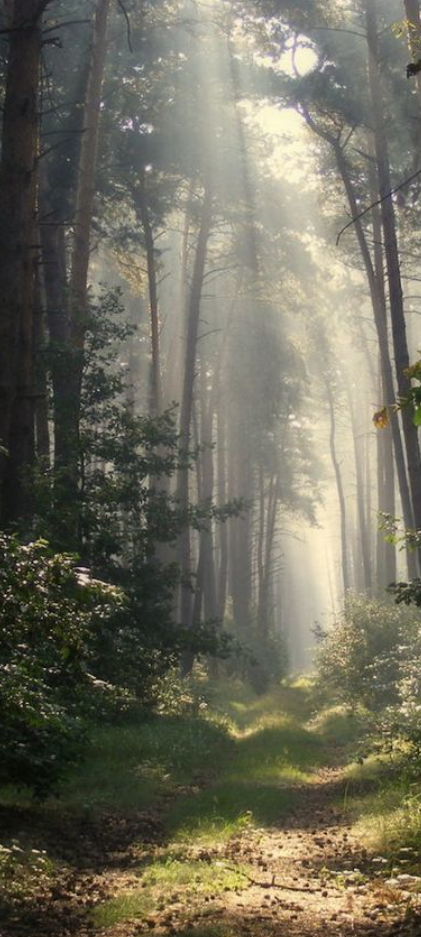
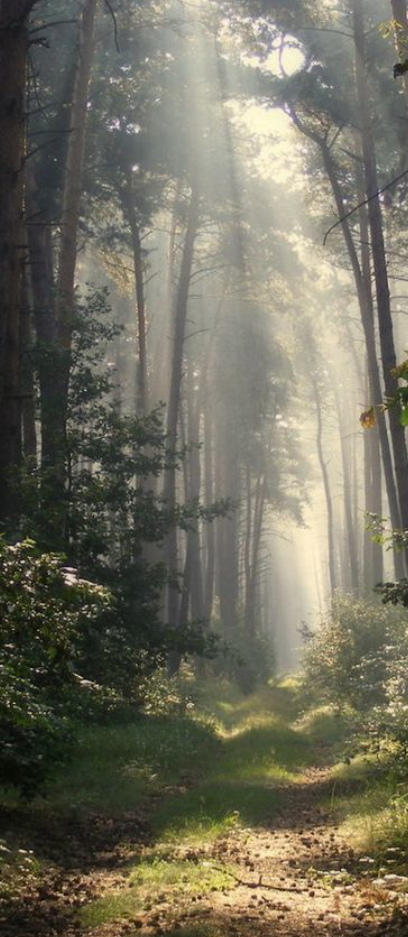
Better screen fit

diff --git a/main.js b/main.js
@@ -94,6 +94,7 @@ let scale = 1;
 let r = 1;
 let r_min = 17;
 let mode = -1;
+const img_num = 8;
 let image_turn = -1;
 
 function resizeCanvas(canvas) {
@@ -104,12 +105,10 @@ function resizeCanvas(canvas) {
 	return last_height !== canvas.height;
 }
 
-async function start() {
-	// Get images from the file input event
+async function loadImages(n) {
 	const imgs = [];
-	const img_num = 8;
 
-	for (let i = 1; i <= img_num; i++) {
+	for (let i = 1; i <= n; i++) {
 		const src = new Image();
 		src.src = `green_dominant/base ${i}.png`;
 		src.crossOrigin = 'anonymous';
@@ -121,9 +120,10 @@ async function start() {
 
 		// Create a canvas
 		const can = document.createElement('canvas');
-		// document.body.appendChild(base_canvas);
+
+		// Set the canvas size following the screen ratio
 		can.width = src.width;
-		can.height = src.height;
+		can.height = src.width / (innerWidth / innerHeight);
 		const ctx = can.getContext('2d', { willReadFrequently: true });
 
 		// Draw the image on the base_canvas
@@ -133,6 +133,11 @@ async function start() {
 		imgs.push({ src, can, ctx });
 	}
 
+	console.log('loaded');
+	return imgs;
+}
+
+async function start() {
 	let decrease_timeout;
 	const decrease = () => {
 		r = Math.max(r_min, r * 0.9);
@@ -143,15 +148,10 @@ async function start() {
 		}
 	};
 
-	let skip_timeout;
 	const skip = () => {
 		image_turn = (image_turn + 1) % imgs.length;
-
 		r = 100;
 		decrease();
-
-		// if (skip_timeout) clearTimeout(skip_timeout);
-		// skip_timeout = setTimeout(skip, 30000);
 	};
 
 	// Create a result canvas
@@ -160,6 +160,10 @@ async function start() {
 	const res_ctx = res_canvas.getContext('2d');
 	document.body.appendChild(res_canvas);
 
+	// Get images from the file input event
+	const img_num = 8;
+	let imgs = [];
+
 	// Draw blured base image on the result canvas
 	const bluredBase = () => {
 		const src = imgs[image_turn].src;
@@ -167,7 +171,6 @@ async function start() {
 		res_ctx.filter = `blur(20px)`;
 		res_ctx.drawImage(src, 0, 0, (res_canvas.height / src.height) * src.width, res_canvas.height);
 		res_ctx.filter = 'none';
-		console.log('blured');
 	};
 
 	// Loop functione
@@ -203,16 +206,16 @@ async function start() {
 
 	res_canvas.ondblclick = () => reset(false);
 
-	function reset(force) {
-		mode = -mode;
-		if (mode === 1) skip();
-
+	async function reset(force) {
 		res_canvas.requestFullscreen();
 		const changed = resizeCanvas(res_canvas) || force;
 
 		if (changed) {
+			// Get images from the file input event
+			imgs = await loadImages(img_num);
+
 			for (const img of imgs) {
-				scale = res_canvas.height / img.src.height;
+				scale = img.can.width / res_canvas.width;
 
 				// Temporary array to store the coordinates
 				temp_coords = [];
@@ -224,7 +227,7 @@ async function start() {
 						const y = Math.round(j + (Math.random() - 0.5) * 10);
 
 						// Get the color of the pixel from the base canvas
-						const [r, g, b] = img.ctx.getImageData(x / scale, y / scale, 1, 1).data;
+						const [r, g, b] = img.ctx.getImageData(x * scale, y * scale, 1, 1).data;
 
 						temp_coords.push([x, y, r, g, b]);
 					}
@@ -254,6 +257,8 @@ async function start() {
 			}
 		}
 
+		mode = -mode;
+		if (mode === 1) skip();
 		bluredBase();
 
 		// Mode 1 is the loop mode
